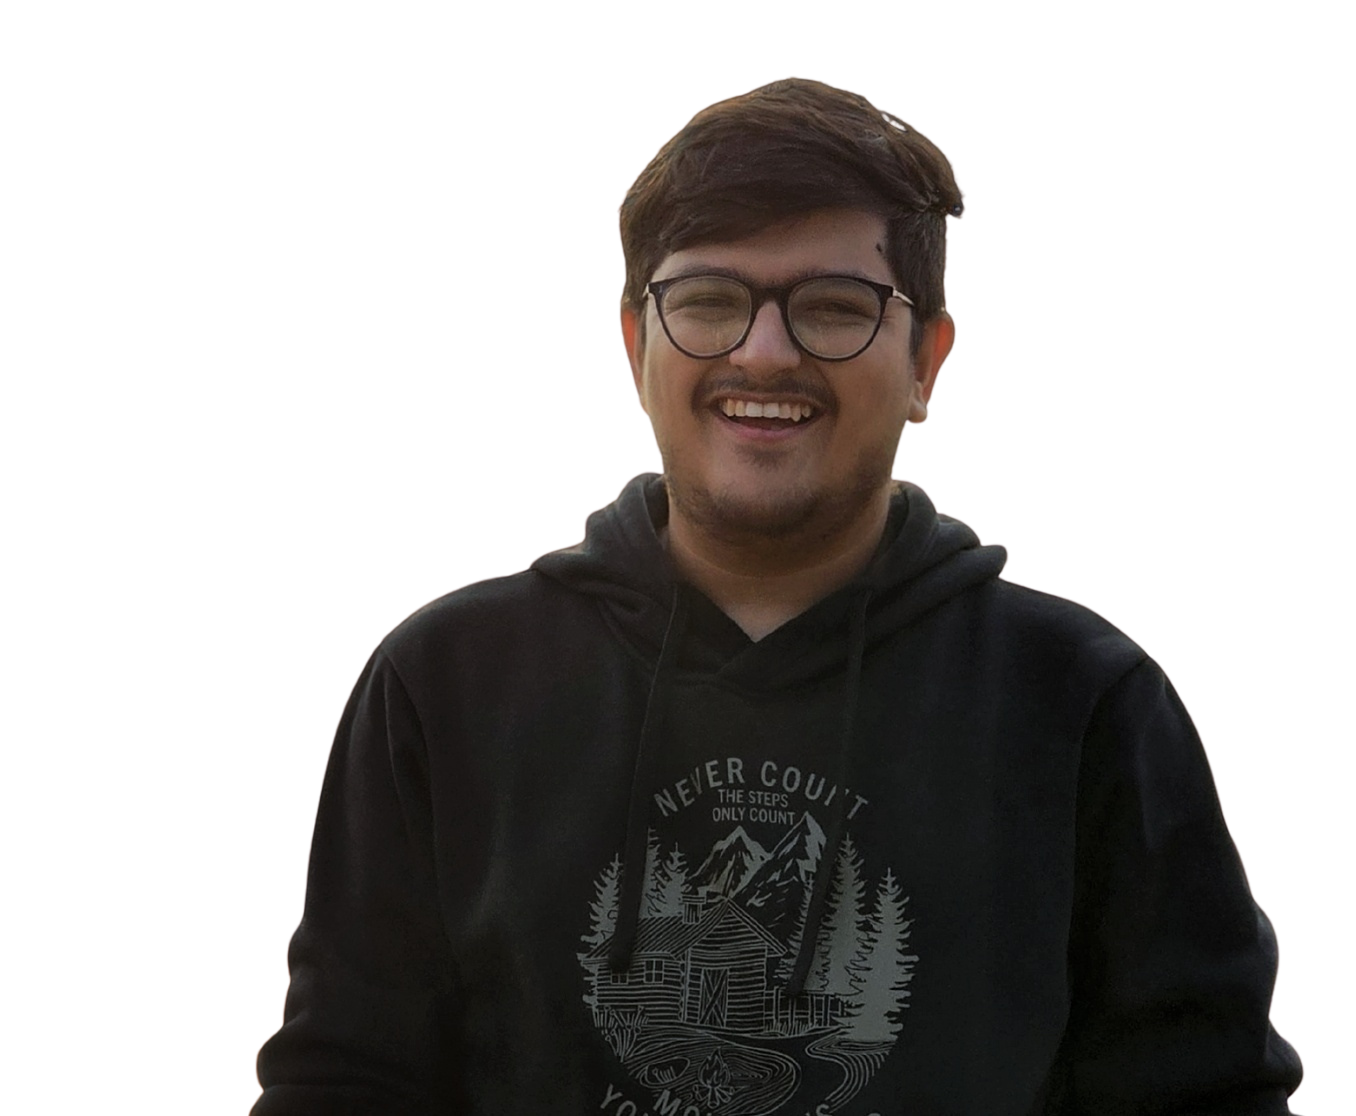
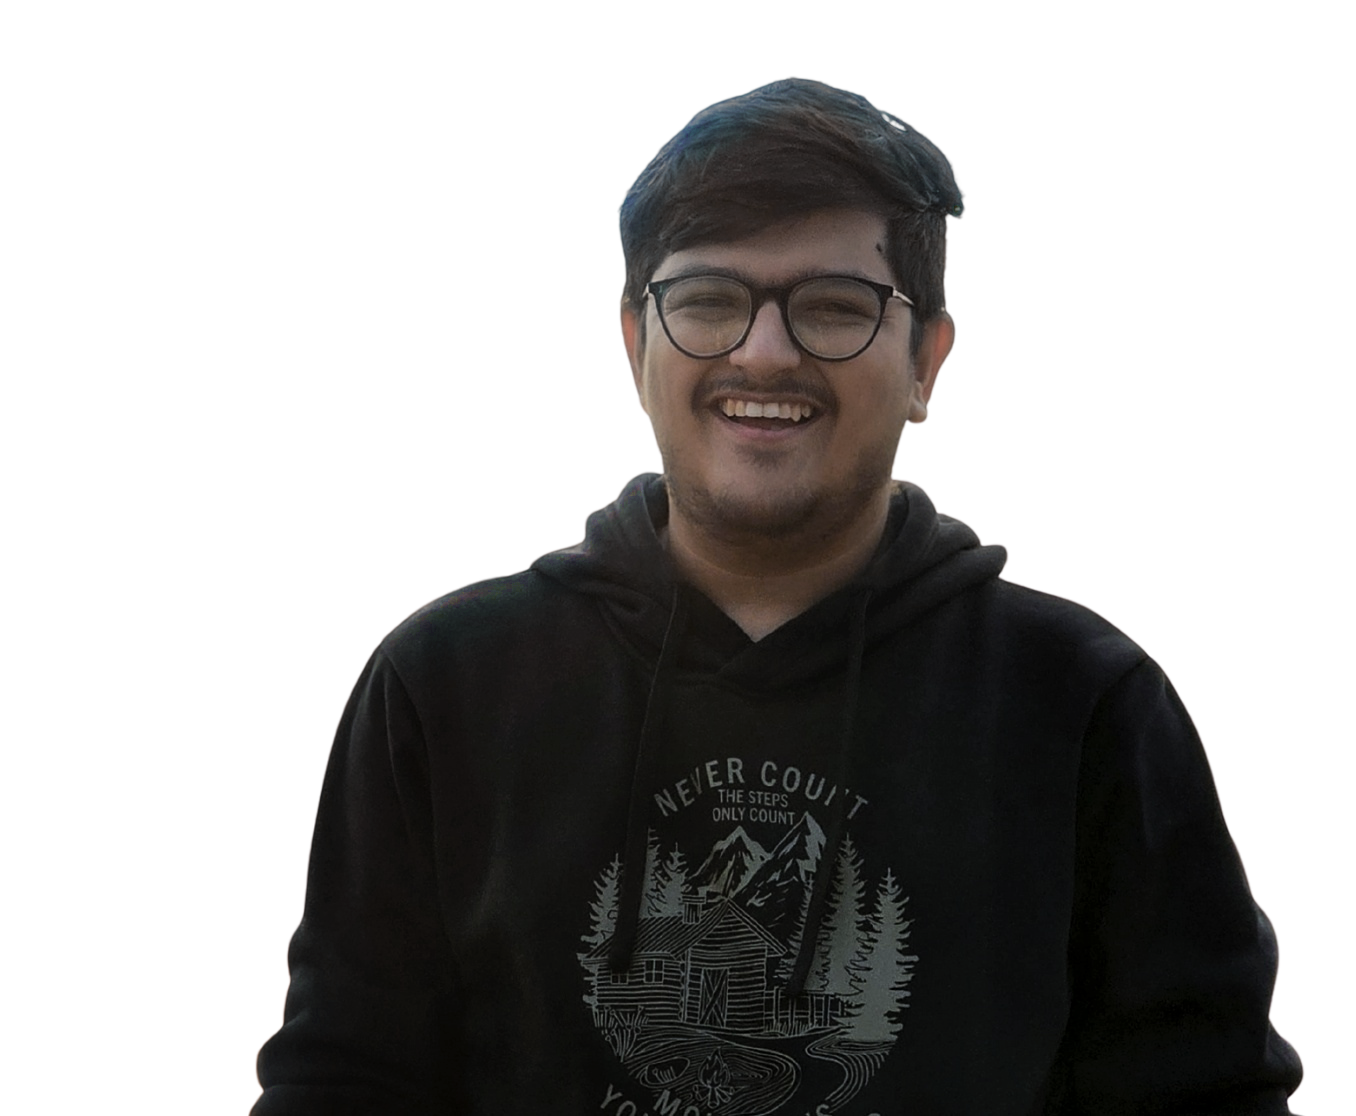
Fixed useEffect for project fetching

Changed region(s): [[0.4336, 0.0609, 0.7124, 0.2133], [0.6814, 0.2742, 0.7124, 0.3351], [0.4336, 0.2742, 0.4956, 0.3047]]

diff --git a/app/portfolio/page.jsx b/app/portfolio/page.jsx
@@ -8,7 +8,7 @@ export const metadata = {
 };
 
 const PortfolioPage = () => {
-  return <ProjectSection />;
+  return <ProjectSection isHome={false} />;
 };
 
 export default PortfolioPage;
